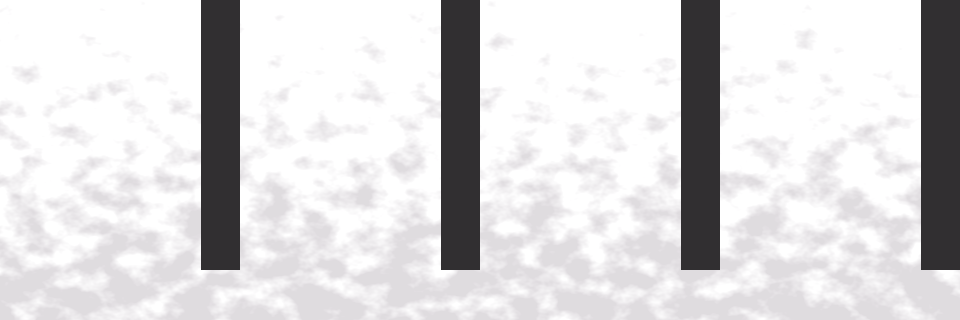
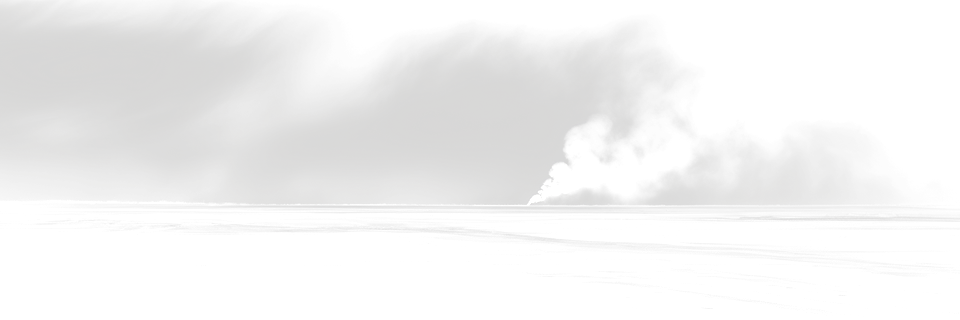
Refine Gate Warden layers: new figure, generated mid and fg layers, luma-keyed assembly

diff --git a/art/tools/assemble_layers.py b/art/tools/assemble_layers.py
@@ -8,7 +8,7 @@ to the second. mid.png and fg.png are left alone. Needs rembg (pip install "remb
 import os
 import sys
 
-from PIL import Image
+from PIL import Image, ImageChops
 from rembg import remove
 
 W, H = 960, 320
@@ -27,6 +27,14 @@ def main():
     canvas = Image.new("RGBA", (W, H), (0, 0, 0, 0))
     canvas.paste(fig, ((W - fig.width) // 2, H - fig.height), fig)
     canvas.save(os.path.join(out, "figure.png"))
+    for name, gain, thr in (("mid", 0.8, 30), ("fg", 1.5, 70)):
+        src = os.path.join(work, name + "_raw.png")
+        if os.path.exists(src):
+            img = Image.open(src).convert("RGB").resize((W, H), Image.LANCZOS)
+            r, g, b = img.split()
+            alpha = ImageChops.lighter(ImageChops.lighter(r, g), b).point(lambda v: min(255, int(max(0, v - thr) * gain)))
+            img.putalpha(alpha)
+            img.save(os.path.join(out, name + ".png"))
     print("wrote", out)
 
 
